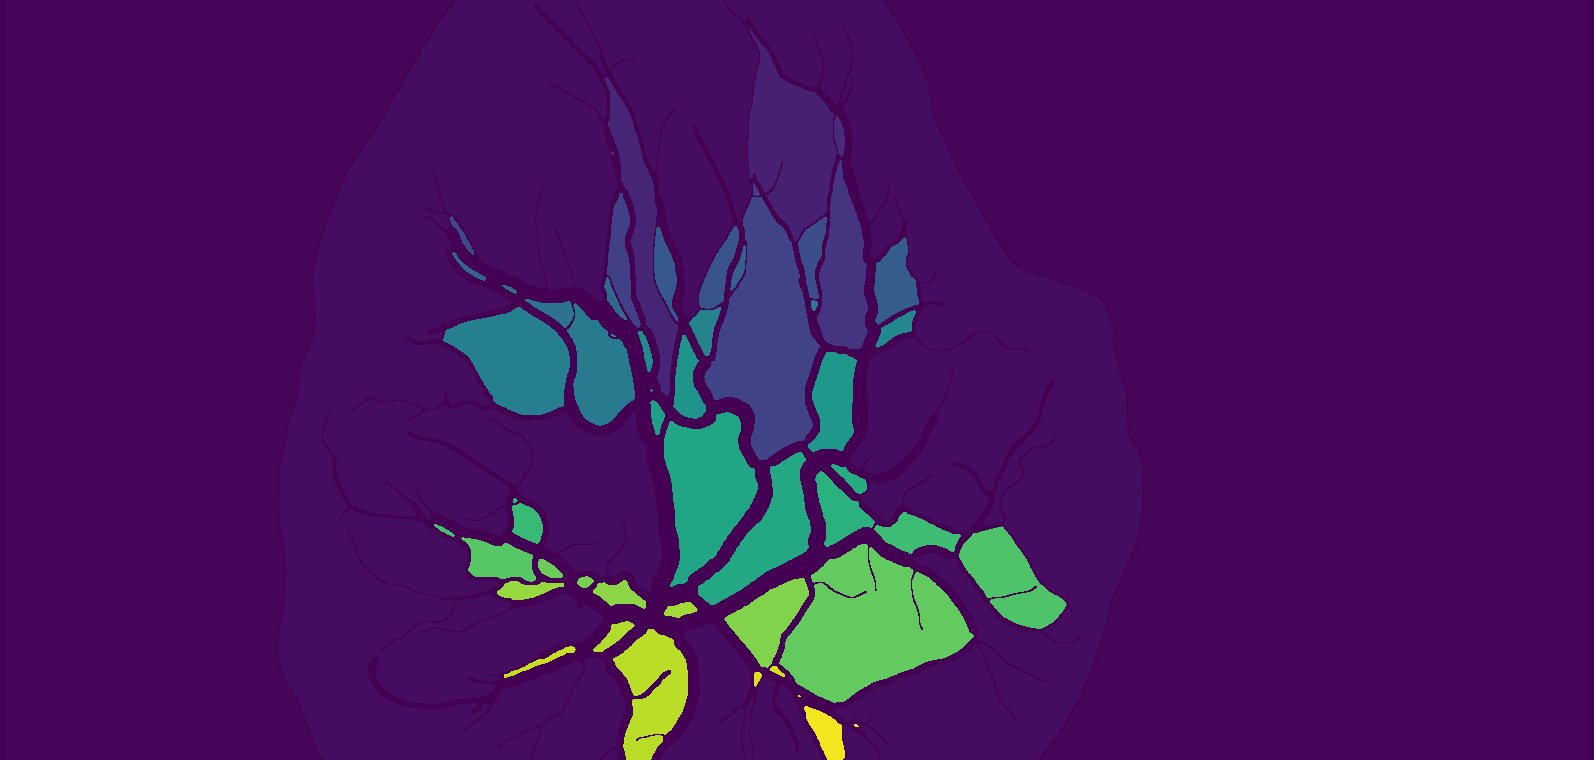
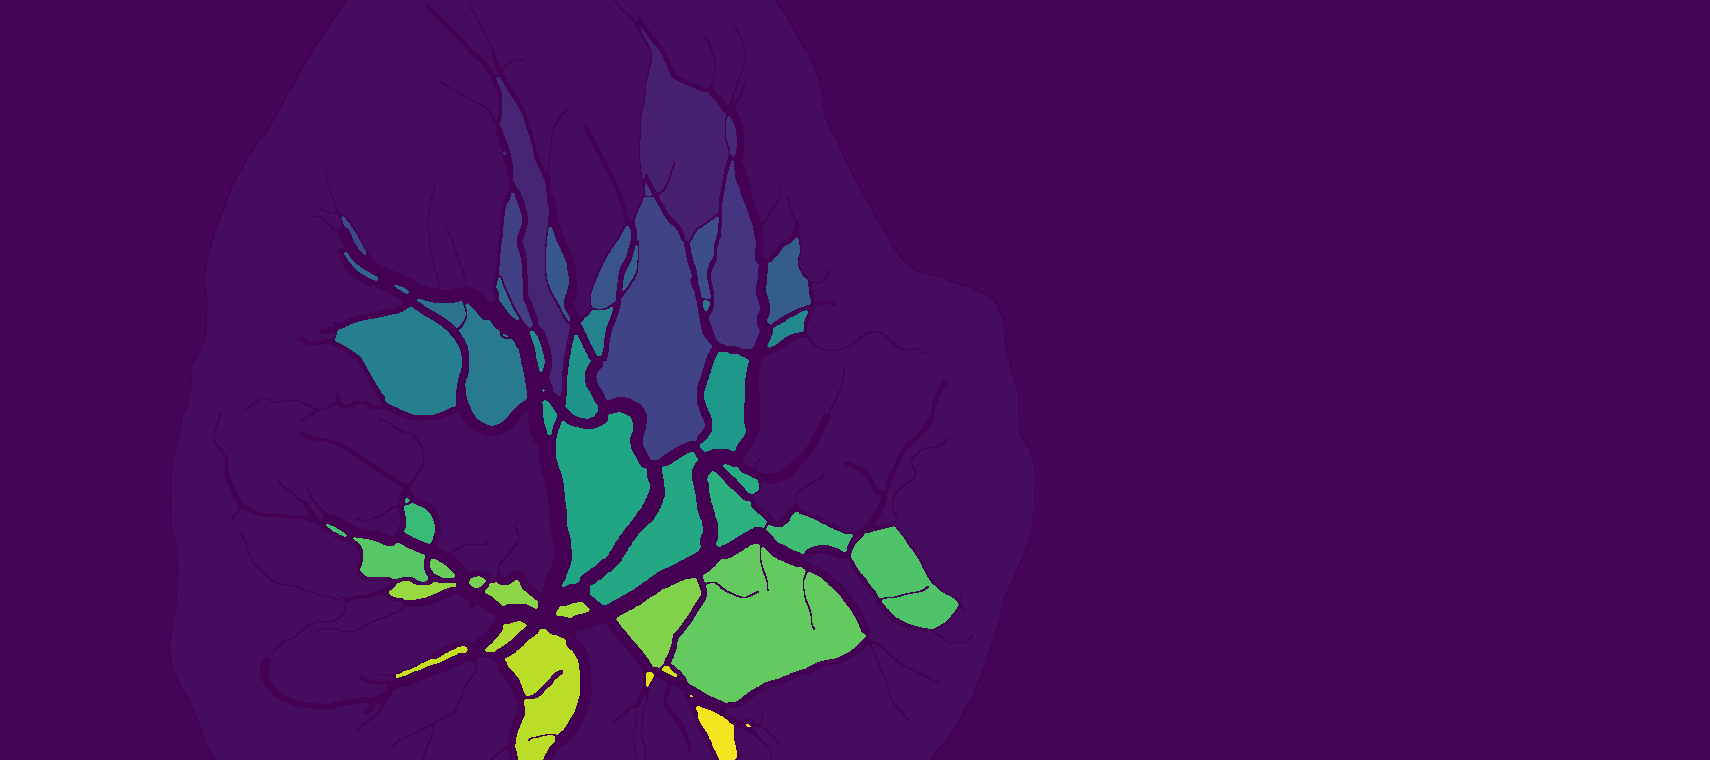
add a few more pics

Changed region(s): [[0.1844, 0.0605, 0.6763, 1.0], [0.1844, 0.3026, 0.2152, 0.3632]]

diff --git a/index.html b/index.html
@@ -4,63 +4,15 @@ title: Computational biology
 subtitle: (and kitten)
 meta-title: "Catalina Anghel"
 bigimg:
-  - "/img/big-imgs/placentaFlower.png" : "Placenta vasculature"
+  - "/img/big-imgs/placentaFlower.png" : "Placenta vasculature (a pretty mistake in finding image regions)"
   - "/img/big-imgs/JenMeiAndKara.jpg" : "Colleagues Jen Mei and Kara"
   - "/img/big-imgs/rollyComputerCropped.jpg" : "My fuzzy, sleepy coding partner"
   - "/img/big-imgs/tsneSingleCell.png" : "t-SNE, neural cells"
+  - "/img/big-imgs/quonLab.png" : "Quon lab outing to Point Reyes: Erjia Cui, Nelson Johansen, Gerald Quon, and Rita Li"
+  - "/img/big-imgs/placentaTrace.png" : "Trace of the placenta vasculature automatically detected from a photo"
 ---
 
 Hello world.
-<!-- <div class="posts-list">
-  {% for post in paginator.posts %}
-  <article class="post-preview">
-    <a href="{{ post.url | prepend: site.baseurl }}">
-	  <h2 class="post-title">{{ post.title }}</h2>
-
-	  {% if post.subtitle %}
-	  <h3 class="post-subtitle">
-	    {{ post.subtitle }}
-	  </h3>
-	  {% endif %}
-    </a>
-
-    <p class="post-meta">
-      Posted on {{ post.date | date: "%B %-d, %Y" }}
-    </p>
-
-    <div class="post-entry-container">
-      {% if post.image %}
-      <div class="post-image">
-        <a href="{{ post.url | prepend: site.baseurl }}">
-          <img src="{{ post.image }}">
-        </a>
-      </div>
-      {% endif %}
-      <div class="post-entry">
-        {{ post.excerpt | strip_html | xml_escape | truncatewords: site.excerpt_length }}
-        {% assign excerpt_word_count = post.excerpt | number_of_words %}
-        {% if post.content != post.excerpt or excerpt_word_count > site.excerpt_length %}
-          <a href="{{ post.url | prepend: site.baseurl }}" class="post-read-more">[Read&nbsp;More]</a>
-        {% endif %}
-      </div>
-    </div>
-
-    {% if post.tags.size > 0 %}
-    <div class="blog-tags">
-      Tags:
-      {% if site.link-tags %}
-      {% for tag in post.tags %}
-      <a href="{{ site.baseurl }}/tag/{{ tag }}">{{ tag }}</a>
-      {% endfor %}
-      {% else %}
-        {{ post.tags | join: ", " }}
-      {% endif %}
-    </div>
-    {% endif %}
-
-   </article>
-  {% endfor %}
-</div> -->
 
 {% if paginator.total_pages > 1 %}
 <ul class="pager main-pager">
